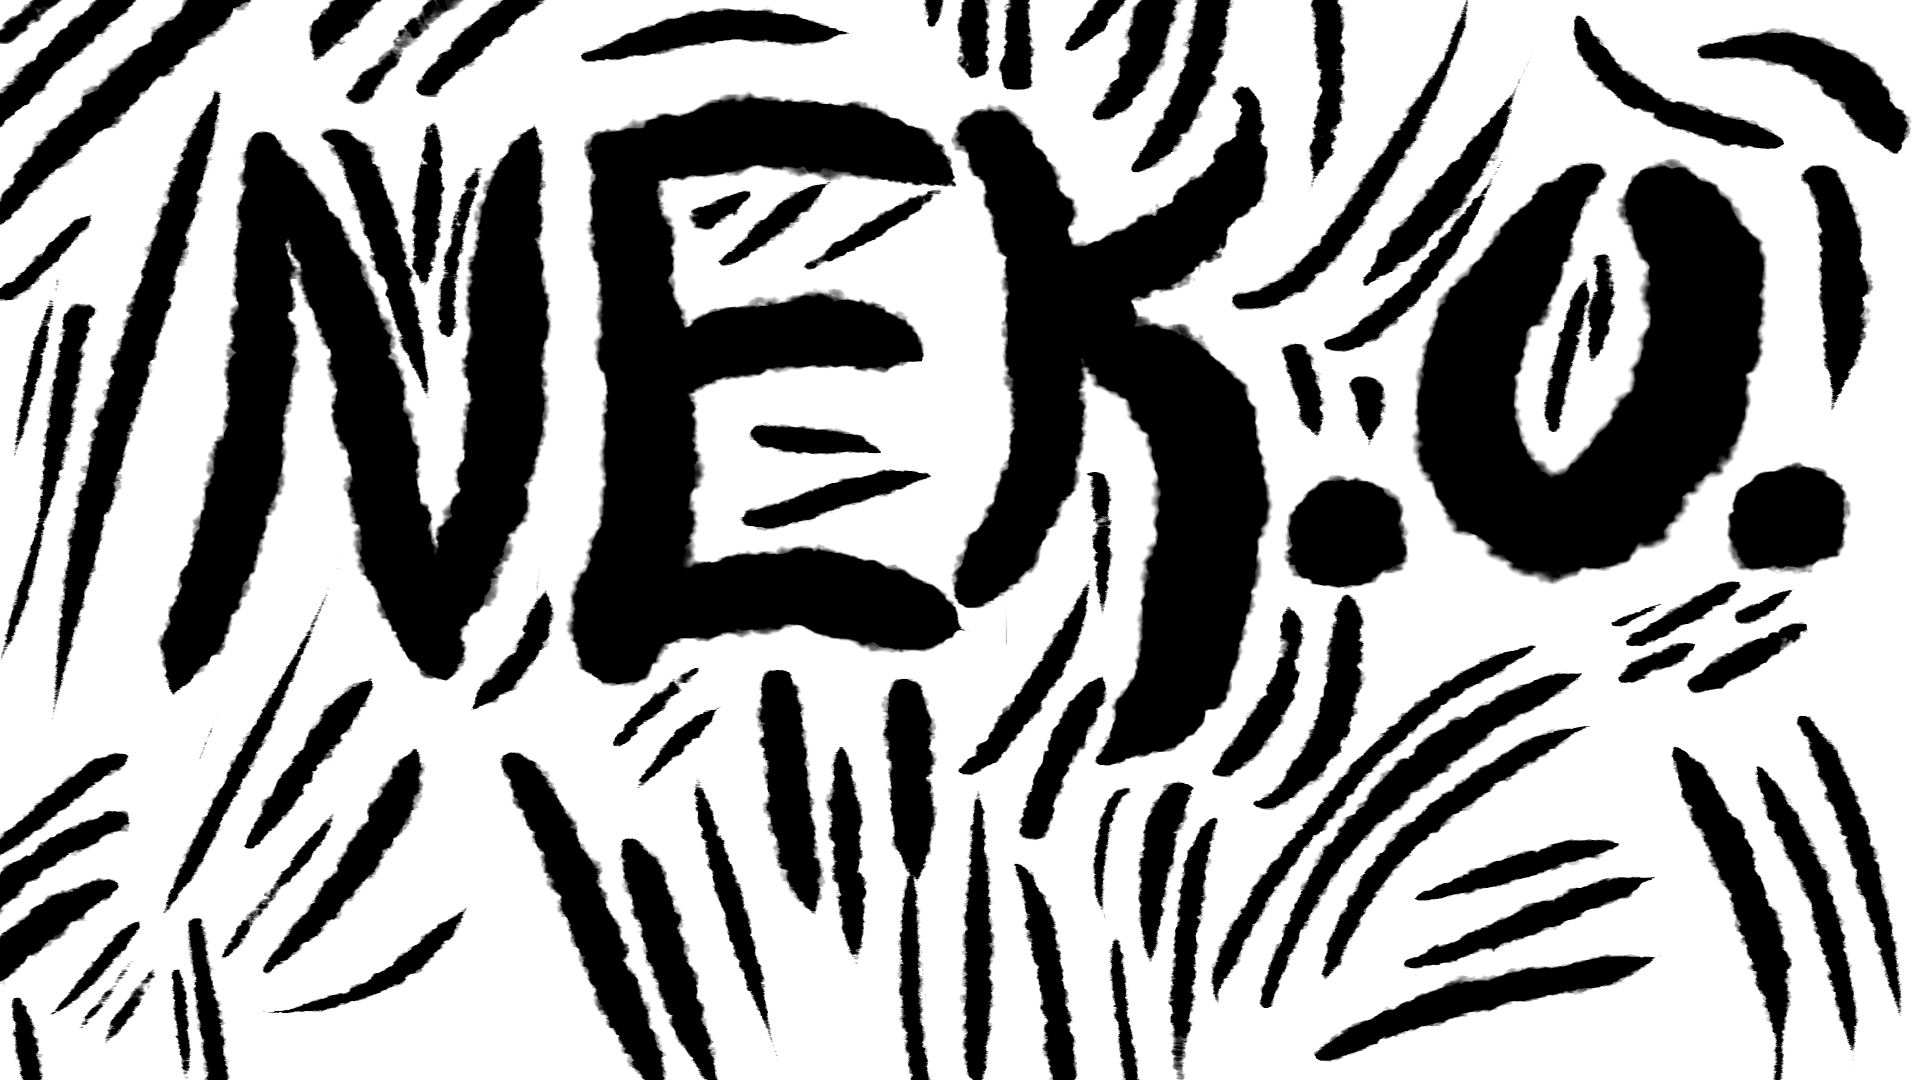
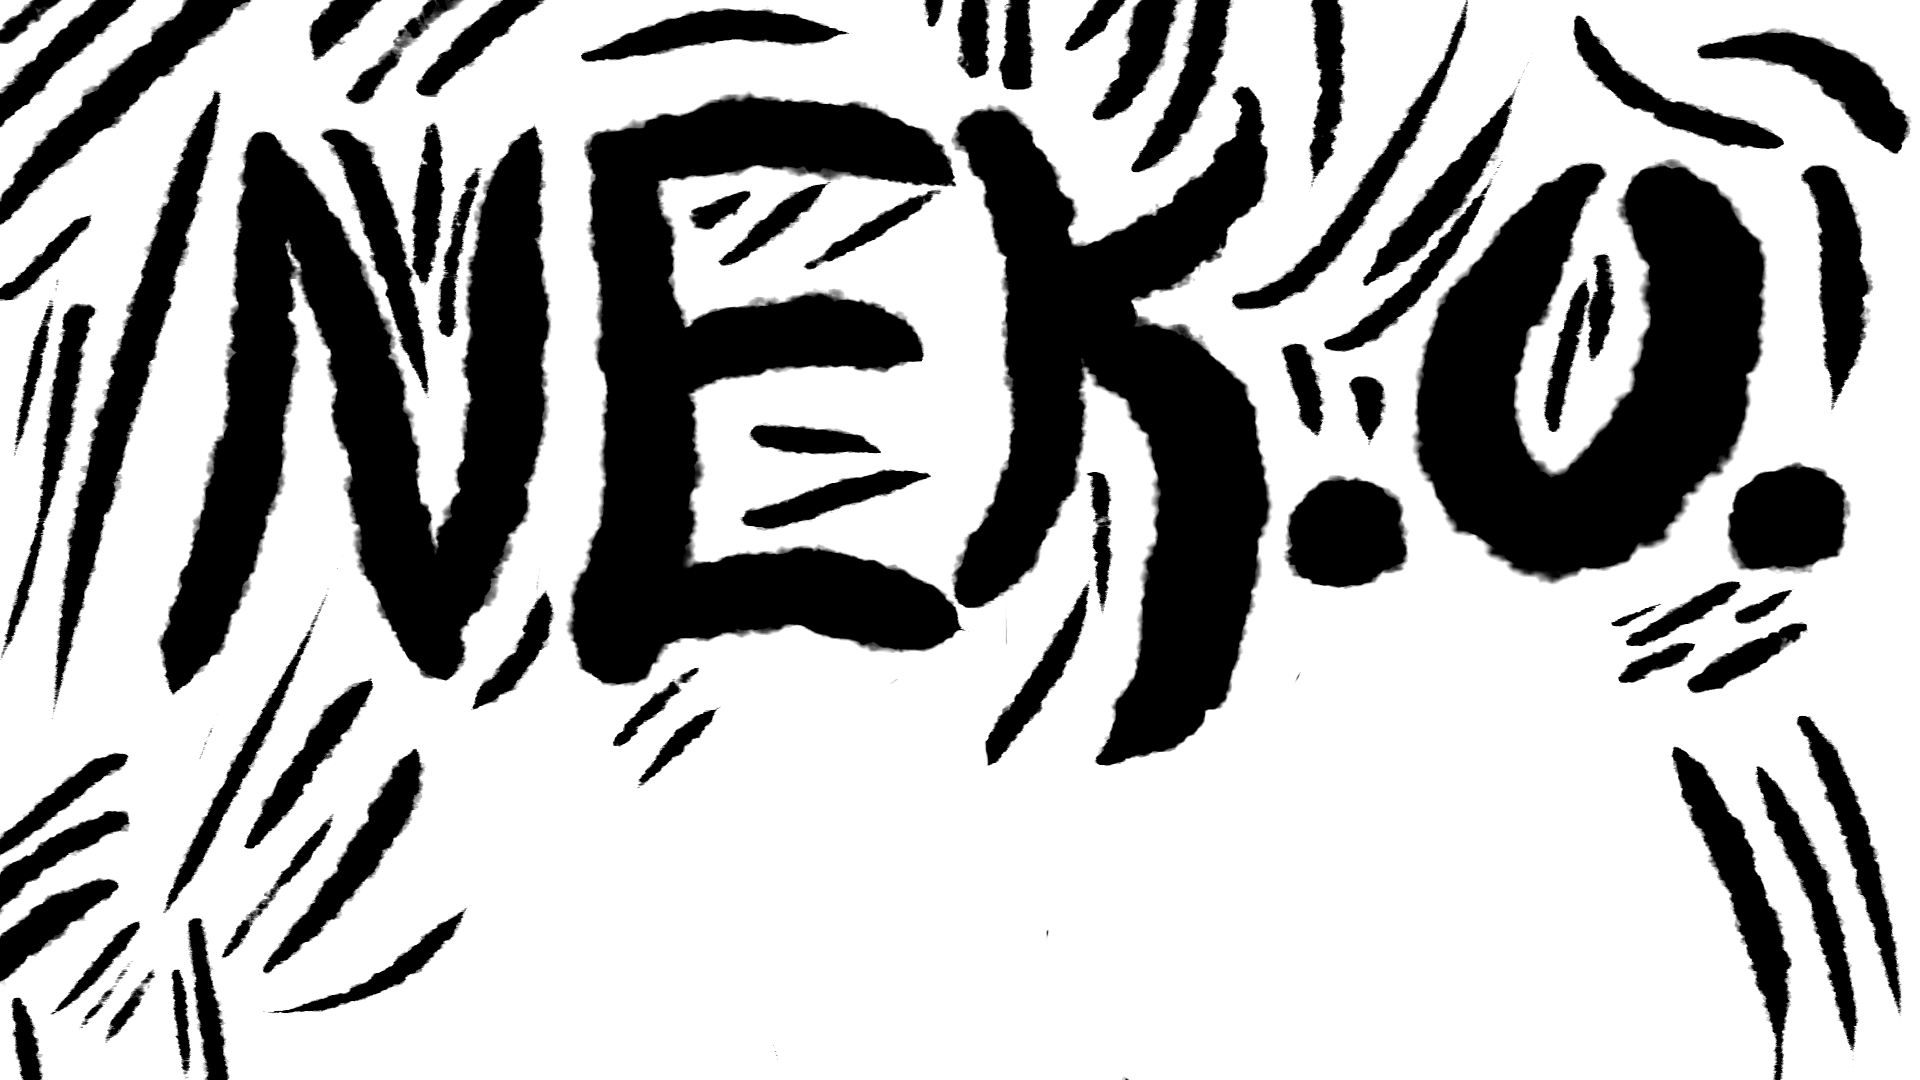
Updated title screen
Added player selection screen

Added textures to the players and removed their overlay colours

Changed region(s): [[0.25, 0.55, 0.875, 1.0]]

diff --git a/code/Ludum_Platform.cpp b/code/Ludum_Platform.cpp
@@ -62,38 +62,34 @@ void AddBot(Play_State *play_state, Player_Type type, f32 x, f32 y) {
     if (play_state->bot_count >= MAX_BOTS) return;
     Player *player = play_state->bots + play_state->bot_count++;
 
+    player->alive = true;
     player->type = type;
     player->position = { x, y };
     player->radius = 20;
     player->display.setRadius(20);
     player->brain.action = RandomInt(0,1);
 
+    player->display.setTexture(play_state->player_textures + type);
     switch (player->type) {
         case PlayerType_SumoCat: {
-            player->display.setFillColor(sf::Color::White);
             player->push_strength = 100;
             player->move_speed = 250;
             player->dash_length = 0.1;
         }
             break;
         case PlayerType_LuchadorCat: {
-            player->display.setFillColor(sf::Color(24, 213, 75));
             player->move_speed = 250;
             player->push_strength = 60;
             player->dash_length = 0.2;
         }
             break;
         case PlayerType_AstroCat: {
-            player->display.setFillColor(sf::Color(113, 229, 255));
-
             player->move_speed = 450;
             player->push_strength = 10;
             player->dash_length = 0.4;
         }
             break;
         case PlayerType_DevilCat: {
-            player->display.setFillColor(sf::Color::Red);
-
             // @Todo
             player->move_speed = 350;
             player->push_strength = 20;
@@ -144,36 +140,33 @@ void AddPlayer(Play_State *play_state, Player_Type type, f32 x, f32 y) {
     if (play_state->player_count >= MAX_PLAYERS) return;
     Player *player = play_state->players + play_state->player_count++;
 
+    player->alive = true;
     player->type = type;
     player->position = { x, y };
     player->radius = 20;
     player->display.setRadius(20);
 
+    player->display.setTexture(play_state->player_textures + type);
     switch (player->type) {
         case PlayerType_SumoCat: {
-            player->display.setFillColor(sf::Color::White);
             player->push_strength = 100;
             player->move_speed = 250;
             player->dash_length = 0.1;
         }
         break;
         case PlayerType_LuchadorCat: {
-            player->display.setFillColor(sf::Color(24, 213, 75));
             player->move_speed = 250;
             player->push_strength = 60;
             player->dash_length = 0.2;
         }
         break;
         case PlayerType_AstroCat: {
-            player->display.setFillColor(sf::Color(113, 229, 255));
-
             player->move_speed = 450;
             player->push_strength = 10;
             player->dash_length = 0.4;
         }
         break;
         case PlayerType_DevilCat: {
-            player->display.setFillColor(sf::Color::Red);
 
             // @Todo
             player->move_speed = 350;
@@ -254,7 +247,6 @@ void UpdateBot(Player *bot, f32 delta_time, Play_State *play_state) {
             case 0:
             {
                 f32 min = 1000000;
-                bot->brain.targetNum = -1;
                 for (int i = 0; i < play_state->player_count; i++) {
                     f32 len = Length(bot->position - (play_state->players + i)->position);
                     if ((play_state->players + i)->alive && len < min &&
@@ -489,6 +481,7 @@ void UpdateRenderPlayState(Game_Context *context, Play_State *play_state) {
     Game_Input *input = context->input;
 
     // @Debug: Adding Players and quit on escape
+#if 0
     {
         Game_Controller *controller = GetGameController(input, 0);
         if (JustButtonPressed(controller->action_top)) {
@@ -511,6 +504,7 @@ void UpdateRenderPlayState(Game_Context *context, Play_State *play_state) {
 
         if (IsButtonPressed(controller->start)) input->requested_quit = true;
     }
+#endif
 
 
     // Check for any collisions
@@ -581,10 +575,6 @@ void UpdateRenderPlayState(Game_Context *context, Play_State *play_state) {
         }
     }
 
-
-
-
-
     play_state->circle_list->display.setOutlineColor(sf::Color::White);
     if (play_state->circle_list->next)
         play_state->circle_list->next->display.setOutlineColor(sf::Color::White);
@@ -595,7 +585,7 @@ void UpdateRenderPlayState(Game_Context *context, Play_State *play_state) {
         if (!player->alive) continue;
 
         if (player->is_dashing) {
-            sf::Color norm = player->display.getFillColor();
+            sf::Color norm = sf::Color::White;
             player->display.setPosition(player->dash_start);
             player->display.setFillColor(sf::Color::White);
             context->window->draw(player->display);
@@ -664,18 +654,83 @@ void UpdateRenderLogoState(Game_Context *context, Logo_State *logo) {
     }
 }
 
+void UpdateRenderCharacterSelect(Game_Context *context, Character_Select_State *character_select) {
+    Game_Controller *controller = GetGameController(context->input, 0);
+    if (JustButtonPressed(controller->move_left)) {
+        character_select->index = character_select->index - 1 < 0 ? 3 : character_select->index - 1;
+    }
+    else if (JustButtonPressed(controller->move_right)) {
+        character_select->index = character_select->index + 1 >= 4 ? 0 : character_select->index + 1;
+    }
+
+    if (JustButtonPressed(controller->action_bottom)) {
+        Player_Type player_type = cast(Player_Type) character_select->index;
+
+        State *old_state = SetState(context, CreateStateFromType(StateType_Play));
+        Play_State *play_state = context->current_state->play_state;
+
+        play_state->min_radius = 320;
+        play_state->max_radius = 500;
+        AddSumoCircle(play_state, VIEW_WIDTH / 2.0, VIEW_HEIGHT / 2.0, play_state->max_radius);
+
+        sf::Vector2f half_sceen = { VIEW_WIDTH / 2.0, VIEW_HEIGHT / 2.0 };
+        sf::Vector2f positions[4] = {
+            { half_sceen.x - play_state->min_radius, half_sceen.y - play_state->min_radius },
+            { half_sceen.x + play_state->min_radius, half_sceen.y - play_state->min_radius },
+            { half_sceen.x + play_state->min_radius, half_sceen.y + play_state->min_radius },
+            { half_sceen.x - play_state->min_radius, half_sceen.y + play_state->min_radius }
+        };
+
+        sf::Vector2f position = positions[player_type];
+        AddPlayer(play_state, player_type, position.x, position.y);
+        for (u32 i = 0; i < 4; ++i) {
+            Player_Type type = cast(Player_Type) i;
+            if (type == player_type) continue;
+
+            position = positions[i];
+            AddBot(play_state, type, position.x, position.y);
+        }
+
+        CleanupState(old_state);
+        return;
+    }
+
+    f32 sin = Sin(character_select->scale_offset);
+    f32 cos = Cos(character_select->scale_offset);
+
+    s32 index = character_select->index;
+    sf::RectangleShape *shape = character_select->character_shapes + index;
+
+    shape->setTexture(character_select->characters + index);
+
+    sf::Vector2f position = shape->getPosition();
+    sf::Vector2f size = shape->getSize();
+
+    //shape->setPosition(position.x + (sin / 2.0), position.y + (sin / 2.0));
+    //shape->setSize(sf::Vector2f(size.x - sin, size.y - sin));
+    context->window->draw(character_select->character_shapes[index]);
+
+    for (u32 i = 0; i < 4; ++i) {
+        if (i == character_select->index) continue;
+        //character_select->character_shapes[i].setSize(sf::Vector2f(VIEW_WIDTH / 4.0, 0.6 * VIEW_HEIGHT));
+        //character_select->character_shapes[i].setPosition(i * (VIEW_WIDTH / 4.0), 40);
+        character_select->character_shapes[i].setTexture(character_select->characters_gray + i);
+        context->window->draw(character_select->character_shapes[i]);
+    }
+    context->window->draw(character_select->border_shape);
+
+    character_select->scale_offset += 1.8 * context->input->delta_time;
+}
+
 void UpdateRenderMenuState(Game_Context *context, Menu_State *menu_state) {
     Game_Input *input = context->input;
     Game_Controller *controller = GetGameController(input, 0);
     for (u32 i = 0; i < ArrayCount(controller->buttons); ++i) {
         if (JustButtonPressed(controller->buttons[i])) {
-            State *old_state = SetState(context, CreateStateFromType(StateType_Play));
+            State *old_state = SetState(context, CreateStateFromType(StateType_CharacterSelect));
+#if 0
             Play_State *play_state = context->current_state->play_state;
-
-            play_state->min_radius = 320;
-            play_state->max_radius = 500;
-            AddSumoCircle(play_state, VIEW_WIDTH / 2.0, VIEW_HEIGHT / 2.0, play_state->max_radius);
-            CleanupState(old_state);
+#endif
             return;
         }
     }
@@ -687,15 +742,7 @@ void UpdateRenderMenuState(Game_Context *context, Menu_State *menu_state) {
     }
 
     if (menu_state->show_text) {
-        sf::Text text;
-        text.setFont(menu_state->display_font);
-        text.setCharacterSize(60);
-        text.setFillColor(sf::Color(255, 25, 25));
-        text.setString("Start Game!");
-        text.setStyle(sf::Text::Bold | sf::Text::Underlined);
-        text.setPosition(790, 850);
-
-        context->window->draw(text);
+        context->window->draw(menu_state->start_shape);
     }
 
 
@@ -716,6 +763,10 @@ void UpdateRenderGame(Game_Context *context) {
         break;
         case StateType_Play: {
             UpdateRenderPlayState(context, current->play_state);
+        }
+        break;
+        case StateType_CharacterSelect: {
+            UpdateRenderCharacterSelect(context, current->character_state);
         }
         break;
         case StateType_GameOver: {

diff --git a/code/Ludum_States.h b/code/Ludum_States.h
@@ -33,31 +33,75 @@ struct Menu_State {
     sf::Texture background;
     sf::RectangleShape background_shape;
 
-    sf::Font display_font;
+    sf::Texture start;
+    sf::RectangleShape start_shape;
 
     f32 text_time;
     bool show_text;
 
     Menu_State() {
         Assert(background.loadFromFile("StartScreen.png"));
-        Assert(display_font.loadFromFile("Ubuntu.ttf"));
+        Assert(start.loadFromFile("start.png"));
 
         text_time = 0;
         show_text = true;
         background_shape.setPosition(0, 0);
-        background_shape.setSize(sf::Vector2f(1920, 1080));
+        background_shape.setSize(sf::Vector2f(VIEW_WIDTH, VIEW_HEIGHT));
         background_shape.setTexture(&background);
+
+        sf::Vector2f size(start.getSize());
+        start_shape.setSize(size);
+        start_shape.setTexture(&start);
+        start_shape.setPosition(VIEW_WIDTH / 2.0 - (size.x / 2.0) + 90,
+                VIEW_HEIGHT - (size.y) - 60);
     }
 };
 
 struct Character_Select_State {
-    // @Todo
+    sf::Texture characters[4];
+    sf::Texture characters_gray[4];
+    sf::RectangleShape character_shapes[4];
+
+    sf::Texture border;
+    sf::RectangleShape border_shape;
+
+    s32 index;
+    f32 scale_offset;
+
+    Character_Select_State() {
+        Assert(characters[0].loadFromFile("SumoSelected.png"));
+        Assert(characters[1].loadFromFile("LuchadoreSelected.png"));
+        Assert(characters[2].loadFromFile("AstroSelected.png"));
+        Assert(characters[3].loadFromFile("DevilSelected.png"));
+
+        Assert(characters_gray[0].loadFromFile("SumoUnselected.png"));
+        Assert(characters_gray[1].loadFromFile("LuchadoreUnselected.png"));
+        Assert(characters_gray[2].loadFromFile("AstroUnselected.png"));
+        Assert(characters_gray[3].loadFromFile("DevilUnselected.png"));
+
+        for (u32 i = 0; i < 4; ++i) {
+            sf::RectangleShape *shape = character_shapes + i;
+            shape->setPosition(i * (VIEW_WIDTH / 4.0), 0);
+            shape->setSize(sf::Vector2f(characters[i].getSize().x,  VIEW_HEIGHT));
+            shape->setTexture(characters + i);
+        }
+
+        Assert(border.loadFromFile("CSSOverlay.png"));
+        border_shape.setPosition(0, 0);
+        border_shape.setSize(sf::Vector2f(VIEW_WIDTH, VIEW_HEIGHT));
+        border_shape.setTexture(&border);
+
+        index = 0;
+        scale_offset = 0;
+    }
 };
 
 #define MAX_PLAYERS 4
 #define MAX_BOTS 8
 
 struct Play_State {
+    sf::Texture player_textures[4];
+
     sf::Font display_font;
     Player players[MAX_PLAYERS];
     s32 player_count;
@@ -81,6 +125,11 @@ struct Play_State {
         circle_count = 0;
         player_count = 0;
         bot_count = 0;
+
+        Assert(player_textures[0].loadFromFile("SumoBall.png"));
+        Assert(player_textures[1].loadFromFile("LuchadoreBall.png"));
+        Assert(player_textures[2].loadFromFile("AstroBall.png"));
+        Assert(player_textures[3].loadFromFile("DevilBall.png"));
 
         Assert(display_font.loadFromFile("Ubuntu.ttf"));
     }

diff --git a/code/Ludum_Platform.h b/code/Ludum_Platform.h
@@ -61,7 +61,7 @@ struct Game_Controller {
             Game_Button start;
             Game_Button select;
         };
-        Game_Button buttons[6];
+        Game_Button buttons[10];
     };
 
     sf::Vector2f left_stick;
@@ -180,7 +180,6 @@ struct Player {
     sf::Texture texture;
 
     BotBrain brain;
-
     Player() {
         score = 0;
         score_time = 0;
@@ -198,18 +197,6 @@ struct Player {
         is_bot = false;
     }
 };
-
-#if 0
-struct Circle_Spawn {
-    sf::Vector2f centre;
-    f32 radius;
-    u8 count;
-    u8 max;
-
-    Circle_Spawn() {}
-};
-Circle_Spawn circle_spawn;
-#endif
 
 struct Sumo_Circle {
     enum Pattern { Circle, Random };
